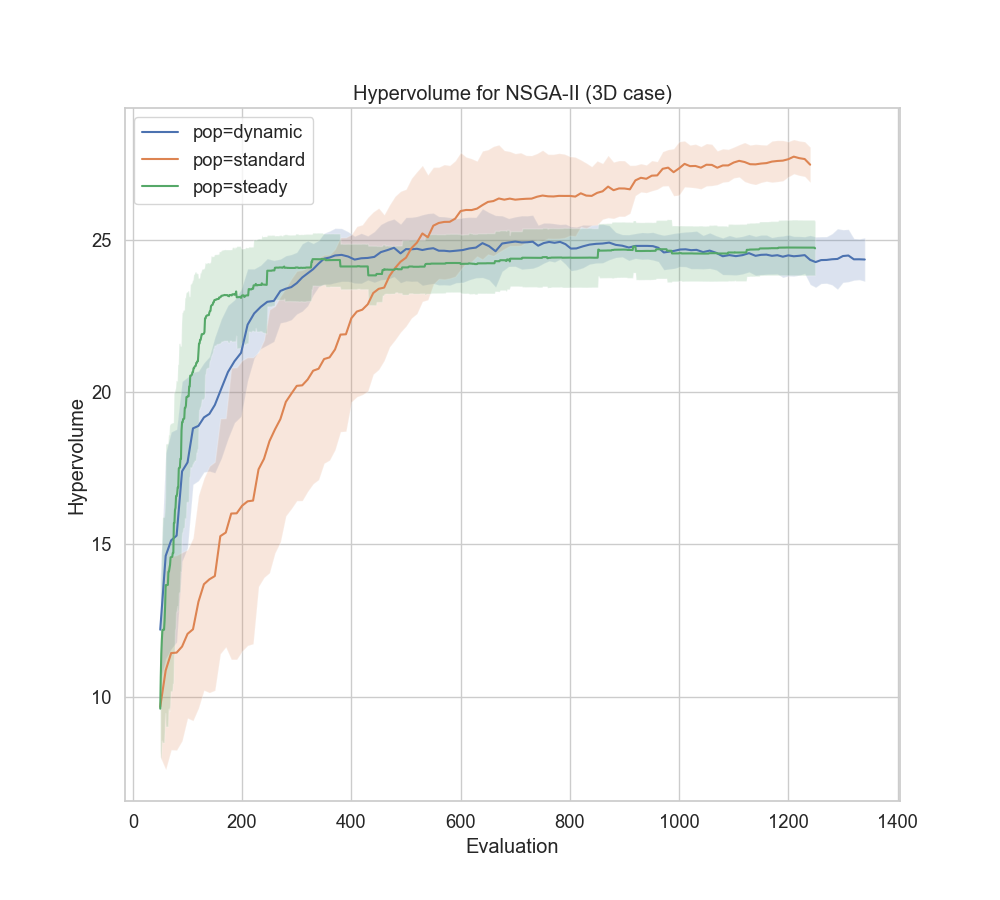
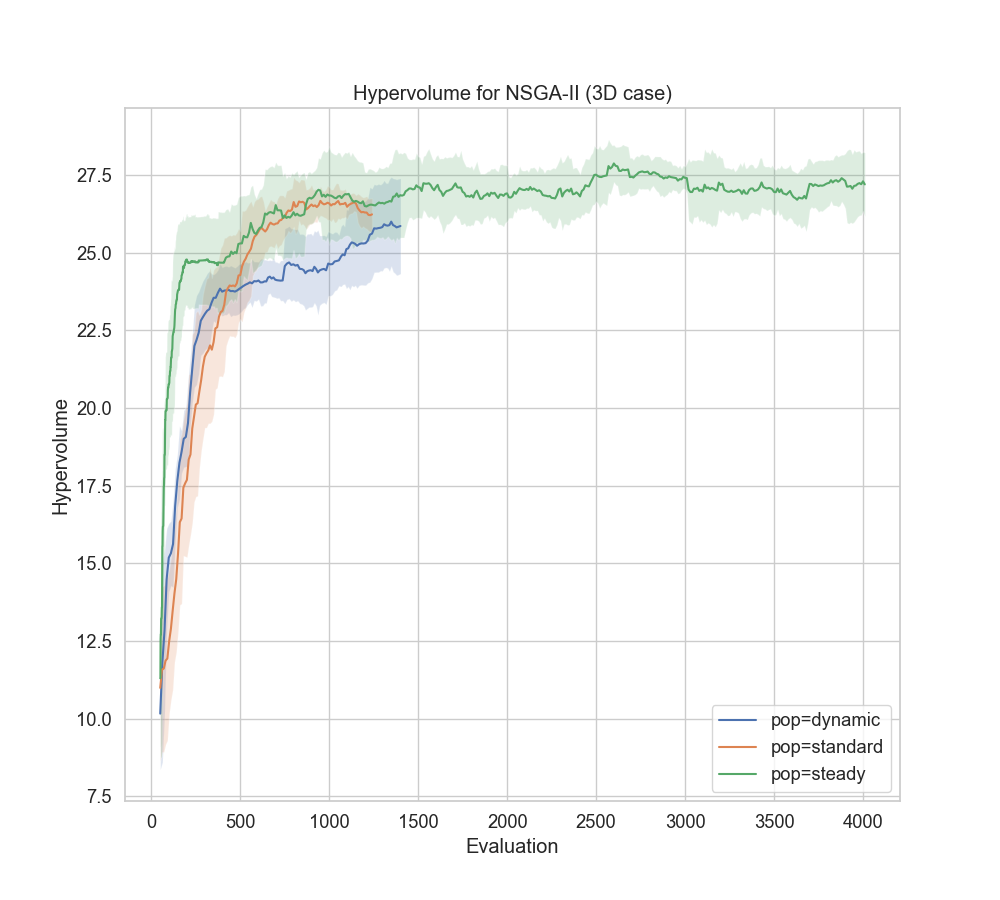
Did a lot of work

diff --git a/lab02utils.py b/lab02utils.py
@@ -306,11 +306,10 @@ def evolve_dynamic(pop_size, generations, stocks_expected_return, stocks_covaria
     base_children = int(pop_size * 0.25)
 
     for g in range(1, generations):
-
-        t = g / generations
+        t = (g - generations * 0.4)/ generations
 
         explore_ratio = max(0.1, 1.0 - t)
-        exploit_ratio = 1.0 - explore_ratio
+        explore_ratio = min(1.0, explore_ratio)
 
         n_explore = int(base_children * explore_ratio)
         n_exploit = base_children - n_explore
@@ -397,7 +396,10 @@ def evolve_steady(pop_size, generations, stocks_expected_return, stocks_covarian
     population_history = [(evals, population)]
     for g in range(1, generations):
 
-        offspring = selection_elite(population, 2)[1:]
+        if g < generations / 2:
+            offspring = selection_elite(population, 2)[1:]
+        else:
+            offspring = selection(population, int(pop_size * 0.2))
         c_offspring = evaluate_f(offspring, stocks_expected_return, stocks_covariance)
         population = np.vstack((population, offspring))
         criteria = np.vstack((criteria, c_offspring))
@@ -459,8 +461,7 @@ def debug2d_animated_3way(
             x = -criteria[:, 1]
             y = criteria[:, 0]
 
-            if evals % 2 == 0:
-                gen_data.append((x, y, evals, g))
+            gen_data.append((x, y, evals, g))
 
         gen_data_all.append(gen_data)
 
@@ -611,8 +612,7 @@ def debug3d_animated_side_by_side(
             y = criteria[:, 0]
             z = -criteria[:, 2]
 
-            if evals % 2 == 0:
-                gen_data.append((x, y, z, evals, g))
+            gen_data.append((x, y, z, evals, g))
 
         gen_data_all.append(gen_data)
 

diff --git a/lab02.py b/lab02.py
@@ -96,14 +96,14 @@ for pop in population_sizes:
             print("Island 2D", ev, pop)
             standard_data.append(evolve(pop, ev, stocks_expected_return, stocks_covariance, False))
             print("Standard 2D", ev, pop)
-            steady_data.append(evolve_steady(pop, ev * 10, stocks_expected_return, stocks_covariance, False))
+            steady_data.append(evolve_steady(pop, (ev//2 * 10) + ev, stocks_expected_return, stocks_covariance, False))
             print("Steady 2D", ev, pop)
 
             island_data3d.append(evolve_dynamic(pop, ev, stocks_expected_return, stocks_covariance, True))
             print("Island 3D", ev, pop)
             standard_data3d.append(evolve(pop, ev, stocks_expected_return, stocks_covariance, True))
             print("Standard 3D", ev, pop)
-            steady_data3d.append(evolve_steady(pop, ev * 10, stocks_expected_return, stocks_covariance, True))
+            steady_data3d.append(evolve_steady(pop, (ev//2 * 10) + ev, stocks_expected_return, stocks_covariance, True))
             print("Steady 3D", ev, pop)
 
 
@@ -204,7 +204,7 @@ def visualize_sensitivity(populations, f, point, name):
         fmt=".3f",
         linewidths=0.5,
         linecolor="gray",
-        cbar_kws={"label": "Sensitivity (IGD)"}
+        cbar_kws={"label": "Sensitivity (HV)"}
     )
 
     ax.set_title(f"Sensitivity Analysis: {name}", fontsize=16, pad=15)
